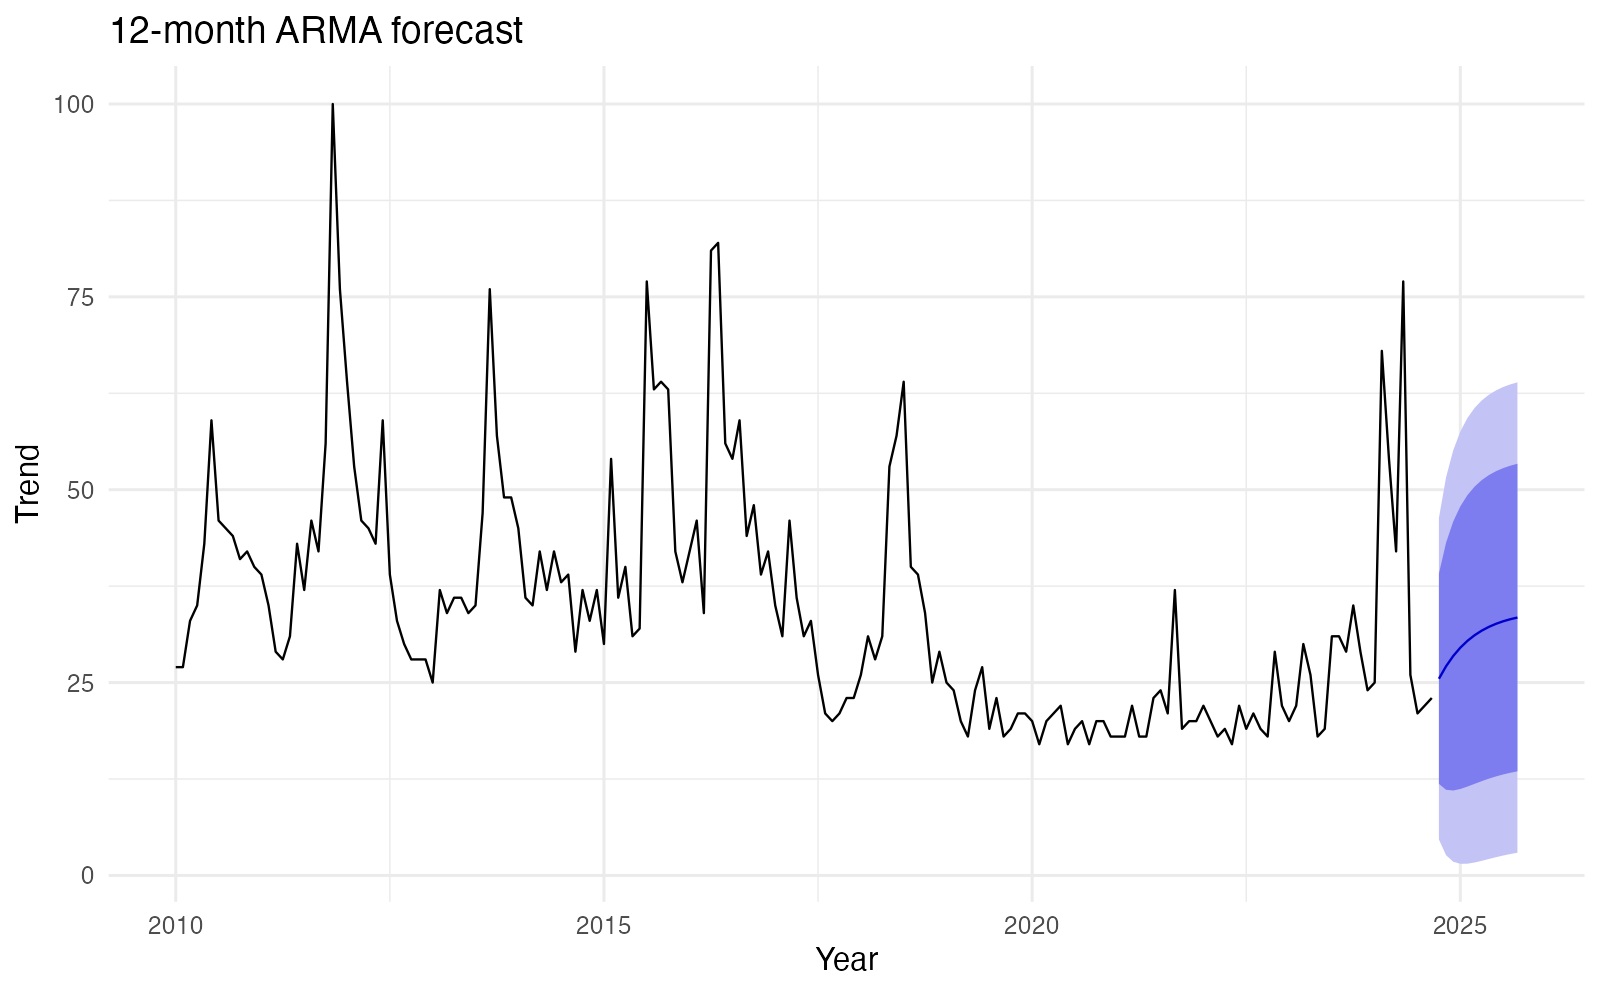
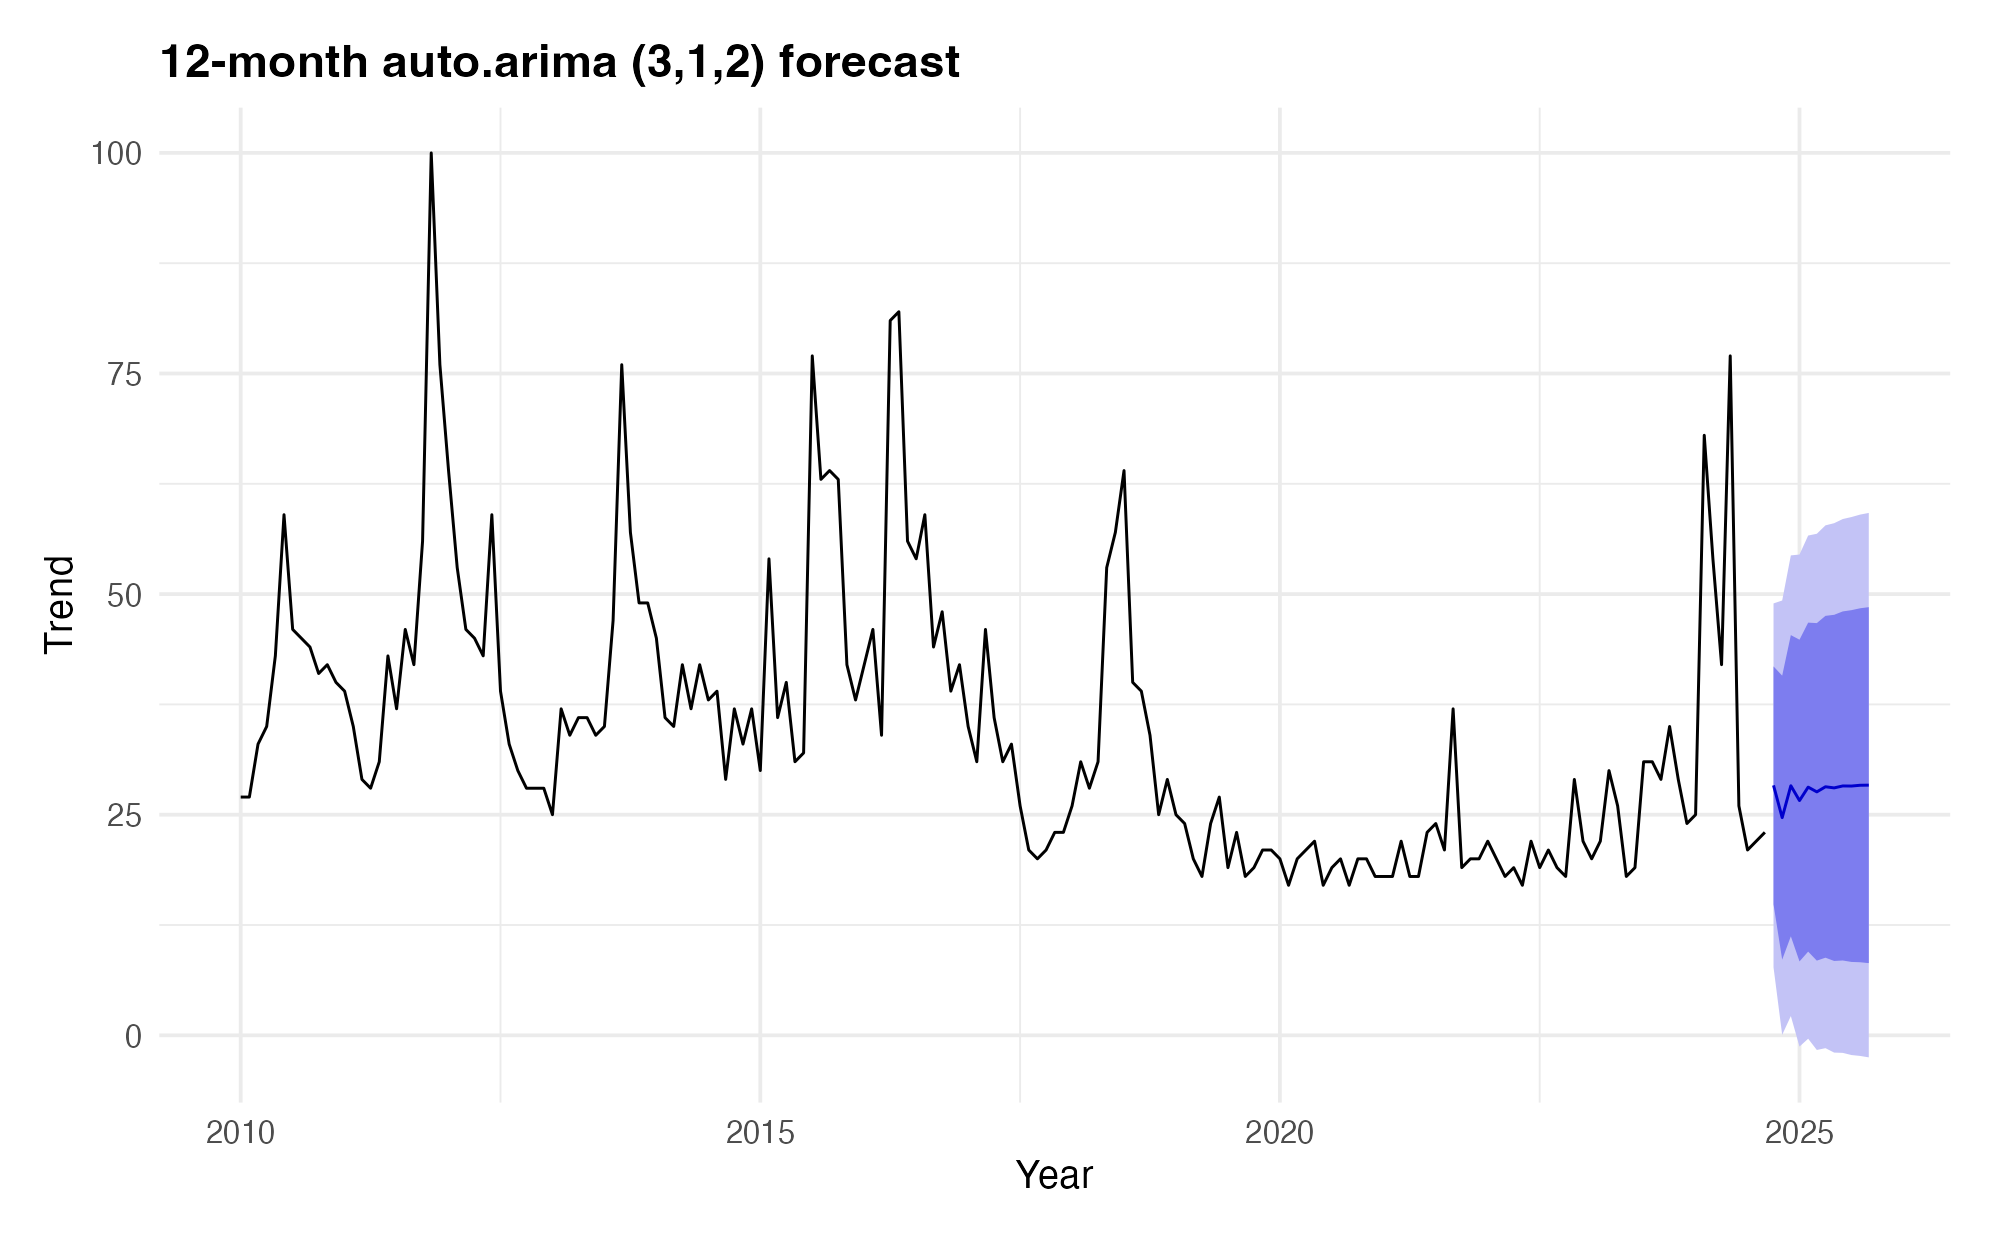
Show Drake forecast from winning auto.arima model.

diff --git a/app/lib/projectImages.ts b/app/lib/projectImages.ts
@@ -266,7 +266,8 @@ export const DRAKE_TIME_SERIES_MEDIA: ProjectMediaSlide[] = [
   {
     src: "/projects/drake-time-series/forecast.png",
     title: "Forecast",
-    description: "12-month ARMA forecast of upcoming trend values.",
+    description:
+      "12-month forecast from auto.arima ARIMA(3,1,2), the lower-AIC/BIC model.",
   },
   {
     src: "/projects/drake-time-series/arma-vs-arima.png",
